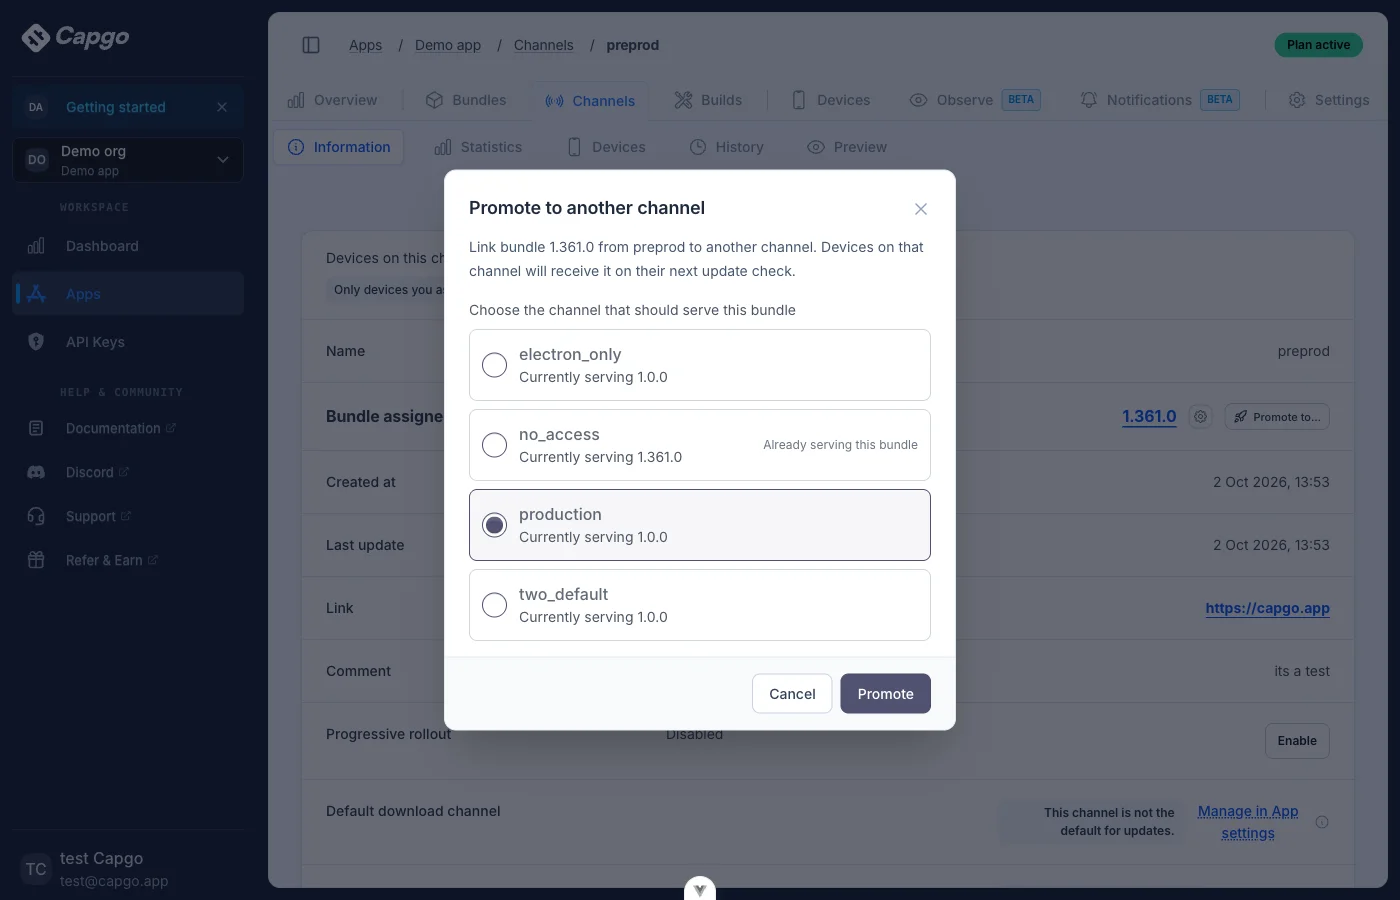
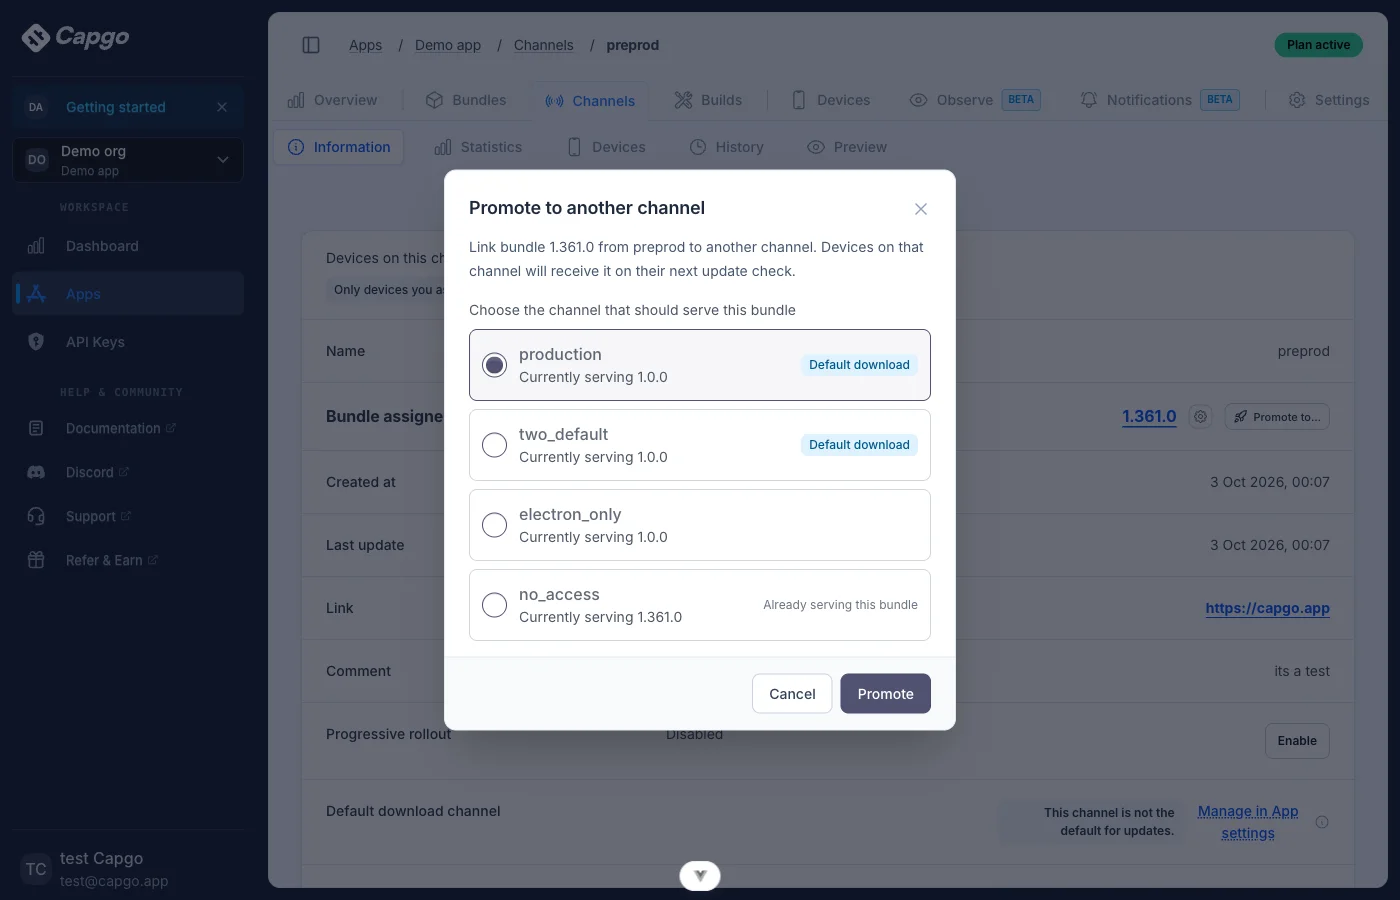
feat(console): show promote only on non-default channels with a default target
Show "Promote to…" only when the current channel is not a default
channel and the app has at least one default channel. Default channels
are listed first in the picker, marked with the "Default download"
badge, and the first one is preselected.

diff --git a/src/pages/app/[app].channel.[channel].vue b/src/pages/app/[app].channel.[channel].vue
@@ -76,10 +76,12 @@ interface PromoteTargetChannel {
   name: string
   versionName: string | null
   rolloutActive: boolean
+  isDefault: boolean
 }
 const promoteDialogId = 'promote-channel-bundle'
 const promoteTargets = ref<PromoteTargetChannel[]>([])
 const promoteTargetId = ref<number | null>(null)
+const appHasDefaultChannel = ref(false)
 
 const main = useMainStore()
 const route = useRoute('/app/[app].channel.[channel]')
@@ -639,20 +641,23 @@ const promoteTargetPermissions = ['channel.promote_bundle', 'channel.update_sett
  */
 async function loadPromoteTargets() {
   const source = channel.value
-  if (!source?.app_id || !source.id) {
+  // Promotion is offered from non-default channels only (e.g. preprod -> production).
+  if (!source?.app_id || !source.id || source.public) {
     promoteTargets.value = []
+    appHasDefaultChannel.value = false
     return
   }
 
   const { data, error } = await supabase
     .from('channels')
-    .select('id, name, rollout_version, rollout_enabled, version:app_versions!channels_version_fkey(name)')
+    .select('id, name, public, rollout_version, rollout_enabled, version:app_versions!channels_version_fkey(name)')
     .eq('app_id', source.app_id)
     .neq('id', source.id)
     .order('name', { ascending: true })
   if (error) {
     console.error('cannot load channels to promote to', error)
     promoteTargets.value = []
+    appHasDefaultChannel.value = false
     return
   }
 
@@ -662,6 +667,7 @@ async function loadPromoteTargets() {
   // Ignore stale results if the user navigated to another channel meanwhile.
   if (channel.value?.id !== source.id)
     return
+  appHasDefaultChannel.value = (data ?? []).some(row => row.public)
   promoteTargets.value = eligible
     .filter(row => row !== null)
     .map(row => ({
@@ -669,12 +675,23 @@ async function loadPromoteTargets() {
       name: row.name,
       versionName: (row.version as { name: string } | null)?.name ?? null,
       rolloutActive: !!row.rollout_enabled && row.rollout_version != null,
+      isDefault: !!row.public,
     }))
+    // Default channels first: they are the usual promotion target.
+    .sort((a, b) => Number(b.isDefault) - Number(a.isDefault))
 }
 
-watch(() => channel.value?.id, () => {
+watch(() => [channel.value?.id, channel.value?.public], () => {
   void loadPromoteTargets()
 }, { immediate: true })
+
+const showPromoteToChannel = computed(() =>
+  !!channel.value
+  && !channel.value.public
+  && !isInternalVersionName(channel.value.version?.name ?? '')
+  && appHasDefaultChannel.value
+  && promoteTargets.value.length > 0,
+)
 
 async function openPromoteToChannel() {
   if (!channel.value?.version)
@@ -689,7 +706,7 @@ async function openPromoteToChannel() {
     toast.error(t('promote-channel-no-target'))
     return
   }
-  promoteTargetId.value = null
+  promoteTargetId.value = promoteTargets.value.find(item => item.isDefault)?.id ?? null
 
   dialogStore.openDialog({
     id: promoteDialogId,
@@ -1441,7 +1458,7 @@ async function copyCurlCommand() {
                   <Settings class="w-4 h-4 text-gray-500 dark:text-gray-400 hover:text-blue-500 dark:hover:text-blue-400" />
                 </button>
                 <button
-                  v-if="!isInternalVersionName(channel.version.name) && promoteTargets.length > 0"
+                  v-if="showPromoteToChannel"
                   type="button"
                   class="gap-1.5 font-medium d-btn d-btn-outline d-btn-xs text-slate-700 dark:text-slate-200"
                   data-test="promote-to-channel"
@@ -2092,6 +2109,12 @@ async function copyCurlCommand() {
             <span v-if="target.rolloutActive" class="block text-xs text-amber-700 dark:text-amber-300">
               {{ t('promote-channel-rollout-cleared') }}
             </span>
+          </span>
+          <span
+            v-if="target.isDefault"
+            class="px-2 py-0.5 text-xs font-medium rounded-md bg-sky-100 text-sky-800 dark:bg-sky-900/40 dark:text-sky-200"
+          >
+            {{ t('channel-default-badge') }}
           </span>
           <span v-if="target.versionName === channel?.version?.name" class="text-xs text-gray-500 dark:text-gray-400">
             {{ t('promote-channel-already-serving') }}
